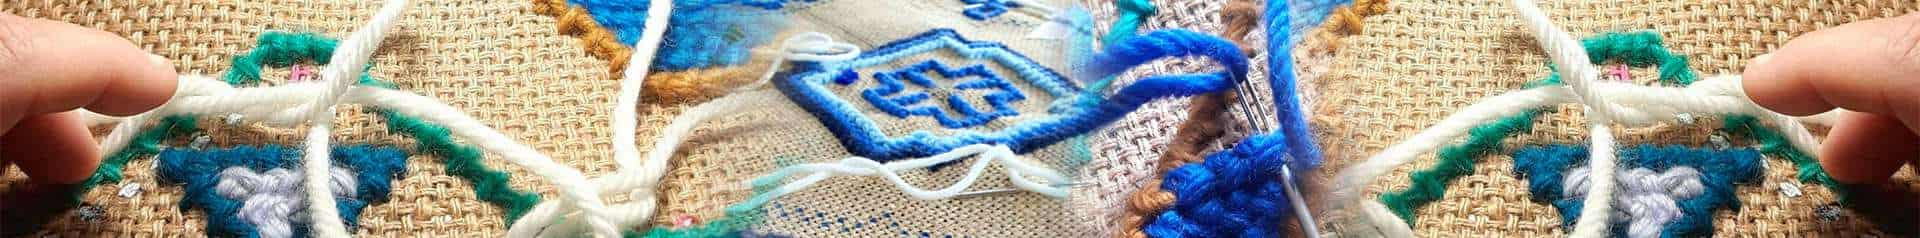
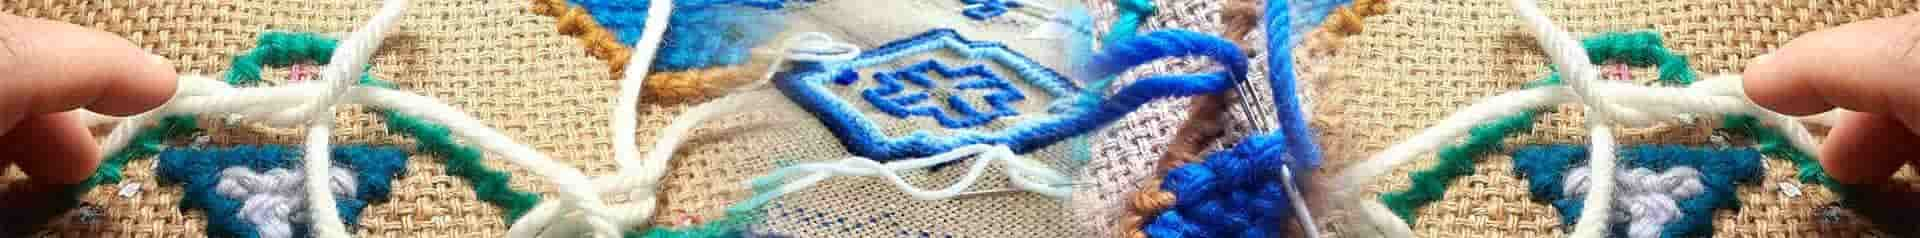
images and videos optimizeds

diff --git a/css/style.css b/css/style.css
@@ -1,1 +1,1 @@
-@import"https://fonts.googleapis.com/css2?family=Open+Sans:wght@400;700&display=swap";*{margin:0;padding:0;box-sizing:border-box;max-width:100%}body{font-family:"Open Sans",sans-serif}strong{-webkit-font-smoothing:antialiased;font-weight:700}.preload{position:absolute;width:0;height:0;opacity:0;z-index:-1;overflow:hidden}.section{display:block;width:100%;padding-left:24px;padding-right:24px}.section-container{width:100%;display:flex;flex-wrap:wrap;align-items:flex-start;align-content:flex-start;width:960px;margin:0 auto;min-height:100%}.row{width:100%;display:flex;flex-wrap:wrap;align-items:flex-start;align-content:flex-start;justify-content:center;align-items:center;align-content:center;width:100%}.header{height:238px;background-image:url("../img/header-aprenda-a-bordar-tapetes-min.jpg")}.header .section-container{width:100%;display:flex;flex-wrap:wrap;align-items:flex-start;align-content:flex-start;justify-content:center;align-items:center;align-content:center}.header .logo{margin-top:-80px}.landing-title{margin-top:-80px}.landing-title main{width:100%;display:flex;flex-wrap:wrap;align-items:flex-start;align-content:flex-start;justify-content:center;align-items:center;align-content:center;background:#802623;padding:14px 0;border:6px solid #fff}.landing-title h1{-webkit-font-smoothing:antialiased;font-weight:400;color:#fff;width:600px;text-align:center}.fake-video-thumb{display:block;width:100%;height:100%;cursor:pointer}.fake-video-thumb:hover{opacity:.8}.section.video{margin-top:40px}.main-video-background{background-image:url("../img/main-video-thumb.png");background-repeat:no-repeat;background-position:center center;background-size:cover;border:4px solid #000;box-sizing:border-box}.section.video .section-container .row{width:100%;display:flex;flex-wrap:wrap;align-items:flex-start;align-content:flex-start;justify-content:center;align-items:center;align-content:center}.section.video .video-frame{width:640px;height:360px}.section.video iframe{width:640px;height:360px;background-color:#000;border:4px solid #000}.section.video .title{-webkit-font-smoothing:antialiased;font-weight:400;display:block;margin:0 auto;width:830px;text-align:center;margin:50px;font-size:26px;color:#767372}.cta{width:100%;display:flex;flex-wrap:wrap;align-items:flex-start;align-content:flex-start;justify-content:center;align-items:center;align-content:center}.cta a{-webkit-font-smoothing:antialiased;font-weight:700;text-decoration:none;display:block;margin:0 auto;background:#2e9e28;color:#fff;width:530px;padding:12px;border-radius:36px;text-align:center;font-size:22px;text-transform:uppercase;transition-property:background-color;transition-duration:.4s}.cta a:hover{background-color:#22751e}.cta a:active{background-color:#164d13}.section.more-details{margin-top:50px;padding-top:10px;background-color:#f1ece3}.section.more-details .title{-webkit-font-smoothing:antialiased;font-weight:400;display:block;width:100%;text-align:center;font-size:43px;color:#363637;text-transform:uppercase}.section.more-details .subtitle{-webkit-font-smoothing:antialiased;font-weight:400;display:block;width:100%;text-align:center;font-size:25px;color:#846919}.section.more-details .image-content{width:100%;display:flex;flex-wrap:wrap;align-items:flex-start;align-content:flex-start}.section.more-details .image-content .image{width:40%;position:relative}.section.more-details .image-content .image img{display:block}.section.more-details .image-content .image .author{position:absolute;right:25px;bottom:30px;font-style:italic;font-size:15px}.section.more-details .image-content .image .author strong{display:block;width:100%}.section.more-details .image-content .content{width:60%;margin-top:30px}.section.more-details .image-content p{display:block;width:100%;font-size:25px}.section.more-details .image-content ul{display:block;width:100%;margin-top:10px}.section.more-details .image-content ul li{-webkit-font-smoothing:antialiased;font-weight:700;list-style:none;font-size:25px;color:#846919}.section.features{padding-top:30px;padding-bottom:30px}.section.features .title{-webkit-font-smoothing:antialiased;font-weight:400;font-size:51px;line-height:51px;text-align:center;width:660px}.section.features .box-container{width:100%;display:flex;flex-wrap:wrap;align-items:flex-start;align-content:flex-start;justify-content:center;align-items:center;align-content:center;align-items:flex-start;margin-top:60px}.section.features .box{width:25%;padding:12px}.section.features .box .icon{width:100%;display:flex;flex-wrap:wrap;align-items:flex-start;align-content:flex-start;justify-content:center;align-items:center;align-content:center;height:90px}.section.features .box .icon img{width:60px}.section.features .box p{display:block;width:100%;text-align:center;font-size:16px;color:#383737}.section.features .cta{margin-top:48px}.section.additional{margin-top:30px;background:#000;padding-top:24px;padding-bottom:42px}.section.additional .title{-webkit-font-smoothing:antialiased;font-weight:400;color:#fff;font-size:36px;text-align:center}.section.additional ul{width:100%;display:flex;flex-wrap:wrap;align-items:flex-start;align-content:flex-start;justify-content:space-between;margin-top:80px}.section.additional ul li{max-width:25%}.section.additional ul li img{display:block}.section.additional ul li strong{display:block;width:100%;text-align:center;color:#fff;font-size:30px;text-transform:uppercase;margin-top:18px}.section.additional .disclaimer{-webkit-font-smoothing:antialiased;font-weight:400;display:block;width:100%;text-align:center;color:#fff;font-size:36px;margin-top:80px}.section.additional .disclaimer strong{text-transform:uppercase}.section.additional .cta{margin-top:42px}.section.depositions{padding-top:50px;padding-bottom:62px}.section.depositions .title{display:block;width:100%;text-align:center;font-size:36px}.section.depositions .title strong{text-transform:uppercase}.section.depositions ul{width:100%;display:flex;flex-wrap:wrap;align-items:flex-start;align-content:flex-start;justify-content:space-between;margin-top:36px}.section.depositions ul li{list-style:none;text-align:center;font-size:16px;width:260px;max-width:33.3333333333%;padding:6px}.section.depositions ul li .video{display:block;width:100%;min-height:150px;background:#000;margin-top:12px}.section.depositions .called{display:block;width:100%;text-align:center;font-size:26px;margin-top:48px}.section.depositions .cta{margin-top:54px}.section.satisfaction{background-color:#155611;padding-top:36px;padding-bottom:36px}.section.satisfaction .row{width:100%;display:flex;flex-wrap:wrap;align-items:flex-start;align-content:flex-start;justify-content:space-between}.section.satisfaction .image{width:230px}.section.satisfaction p{-webkit-font-smoothing:antialiased;font-weight:400;width:calc(100% - 230px);padding-left:24px;color:#fff;font-size:16px}.section.price{padding-top:36px;padding-bottom:42px}.section.price .row-title{width:100%;display:flex;flex-wrap:wrap;align-items:flex-start;align-content:flex-start;justify-content:center;align-items:center;align-content:center}.section.price .title{display:block;width:680px;color:#f40103;font-size:36px;text-transform:uppercase;text-align:center}.section.price .alert-message{-webkit-font-smoothing:antialiased;font-weight:700;display:block;width:100%;color:#fff;background:#f40103;text-align:center;padding:6px;font-size:22px;text-transform:uppercase;margin-top:20px}.section.price .price-from{-webkit-font-smoothing:antialiased;font-weight:700;display:block;width:100%;text-align:center;margin-top:22px;font-size:38px;text-transform:uppercase}.section.price .price-from strong{position:relative;color:#f40103}.section.price .price-to{-webkit-font-smoothing:antialiased;font-weight:700;display:block;width:100%;text-align:center;font-size:25px}.section.price .price-to strong{font-size:90px}.section.price .tips{-webkit-font-smoothing:antialiased;font-weight:700;display:block;width:100%;text-align:center;margin-top:12px;font-size:33px;text-transform:uppercase}.section.price .cta{margin-top:36px}.section.price .payments{display:block;width:100%;margin-top:22px}.section.price .payments ul{width:100%;display:flex;flex-wrap:wrap;align-items:flex-start;align-content:flex-start;justify-content:center;align-items:center;align-content:center}.section.price .payments ul li{list-style:none;margin:0 5px}.section.price .payments ul li.text{-webkit-font-smoothing:antialiased;font-weight:700;font-size:10px;text-transform:uppercase;line-height:12px;color:#888}.section.price .payments ul li.mastercard img{width:40px}.section.price .payments ul li.visa img{width:50px}.section.price .payments ul li.hypercard img{width:44px}.section.price .payments ul li.american-express img{width:36px}.section.price .payments ul li.elo img{width:50px}.section.price .payments ul li.diners-club img{width:80px}.section.price .payments ul li.boleto img{width:42px}.section.price .payments ul li.paypal img{width:68px}.section.price .payments ul li.separator span{display:block;width:2px;height:50px;background:#b1b1b1}footer{background-color:#802623;width:100%;height:80px}/*# sourceMappingURL=style.css.map */
+@import"https://fonts.googleapis.com/css2?family=Open+Sans:wght@400;700&display=swap";*{margin:0;padding:0;box-sizing:border-box;max-width:100%}body{font-family:"Open Sans",sans-serif}strong{-webkit-font-smoothing:antialiased;font-weight:700}.preload{position:absolute;width:0;height:0;opacity:0;z-index:-1;overflow:hidden}.section{display:block;width:100%;padding-left:24px;padding-right:24px}.section-container{width:100%;display:flex;flex-wrap:wrap;align-items:flex-start;align-content:flex-start;width:960px;margin:0 auto;min-height:100%}.row{width:100%;display:flex;flex-wrap:wrap;align-items:flex-start;align-content:flex-start;justify-content:center;align-items:center;align-content:center;width:100%}.header{height:238px;background-image:url("../img/header-aprenda-a-bordar-tapetes-min.jpg")}.header .section-container{width:100%;display:flex;flex-wrap:wrap;align-items:flex-start;align-content:flex-start;justify-content:center;align-items:center;align-content:center}.header .logo{margin-top:-80px}.landing-title{margin-top:-80px}.landing-title main{width:100%;display:flex;flex-wrap:wrap;align-items:flex-start;align-content:flex-start;justify-content:center;align-items:center;align-content:center;background:#802623;padding:14px 0;border:6px solid #fff}.landing-title h1{-webkit-font-smoothing:antialiased;font-weight:400;color:#fff;width:600px;text-align:center}.fake-video-thumb{display:block;width:100%;height:100%;cursor:pointer}.fake-video-thumb:hover{opacity:.8}.section.video{margin-top:40px}.main-video-background{background-image:url("../img/main-video-thumb-min.png");background-repeat:no-repeat;background-position:center center;background-size:cover;border:4px solid #000;box-sizing:border-box}.section.video .section-container .row{width:100%;display:flex;flex-wrap:wrap;align-items:flex-start;align-content:flex-start;justify-content:center;align-items:center;align-content:center}.section.video .video-frame{width:640px;height:360px}.section.video iframe{width:640px;height:360px;background-color:#000;border:4px solid #000}.section.video .title{-webkit-font-smoothing:antialiased;font-weight:400;display:block;margin:0 auto;width:830px;text-align:center;margin:50px;font-size:26px;color:#767372}.cta{width:100%;display:flex;flex-wrap:wrap;align-items:flex-start;align-content:flex-start;justify-content:center;align-items:center;align-content:center}.cta a{-webkit-font-smoothing:antialiased;font-weight:700;text-decoration:none;display:block;margin:0 auto;background:#2e9e28;color:#fff;width:530px;padding:12px;border-radius:36px;text-align:center;font-size:22px;text-transform:uppercase;transition-property:background-color;transition-duration:.4s}.cta a:hover{background-color:#22751e}.cta a:active{background-color:#164d13}.section.more-details{margin-top:50px;padding-top:10px;background-color:#f1ece3}.section.more-details .title{-webkit-font-smoothing:antialiased;font-weight:400;display:block;width:100%;text-align:center;font-size:43px;color:#363637;text-transform:uppercase}.section.more-details .subtitle{-webkit-font-smoothing:antialiased;font-weight:400;display:block;width:100%;text-align:center;font-size:25px;color:#846919}.section.more-details .image-content{width:100%;display:flex;flex-wrap:wrap;align-items:flex-start;align-content:flex-start}.section.more-details .image-content .image{width:40%;position:relative}.section.more-details .image-content .image img{display:block}.section.more-details .image-content .image .author{position:absolute;right:25px;bottom:30px;font-style:italic;font-size:15px}.section.more-details .image-content .image .author strong{display:block;width:100%}.section.more-details .image-content .content{width:60%;margin-top:30px}.section.more-details .image-content p{display:block;width:100%;font-size:25px}.section.more-details .image-content ul{display:block;width:100%;margin-top:10px}.section.more-details .image-content ul li{-webkit-font-smoothing:antialiased;font-weight:700;list-style:none;font-size:25px;color:#846919}.section.features{padding-top:30px;padding-bottom:30px}.section.features .title{-webkit-font-smoothing:antialiased;font-weight:400;font-size:51px;line-height:51px;text-align:center;width:660px}.section.features .box-container{width:100%;display:flex;flex-wrap:wrap;align-items:flex-start;align-content:flex-start;justify-content:center;align-items:center;align-content:center;align-items:flex-start;margin-top:60px}.section.features .box{width:25%;padding:12px}.section.features .box .icon{width:100%;display:flex;flex-wrap:wrap;align-items:flex-start;align-content:flex-start;justify-content:center;align-items:center;align-content:center;height:90px}.section.features .box .icon img{width:60px}.section.features .box p{display:block;width:100%;text-align:center;font-size:16px;color:#383737}.section.features .cta{margin-top:48px}.section.additional{margin-top:30px;background:#000;padding-top:24px;padding-bottom:42px}.section.additional .title{-webkit-font-smoothing:antialiased;font-weight:400;color:#fff;font-size:36px;text-align:center}.section.additional ul{width:100%;display:flex;flex-wrap:wrap;align-items:flex-start;align-content:flex-start;justify-content:space-between;margin-top:80px}.section.additional ul li{max-width:25%}.section.additional ul li img{display:block}.section.additional ul li strong{display:block;width:100%;text-align:center;color:#fff;font-size:30px;text-transform:uppercase;margin-top:18px}.section.additional .disclaimer{-webkit-font-smoothing:antialiased;font-weight:400;display:block;width:100%;text-align:center;color:#fff;font-size:36px;margin-top:80px}.section.additional .disclaimer strong{text-transform:uppercase}.section.additional .cta{margin-top:42px}.section.depositions{padding-top:50px;padding-bottom:62px}.section.depositions .title{display:block;width:100%;text-align:center;font-size:36px}.section.depositions .title strong{text-transform:uppercase}.section.depositions ul{width:100%;display:flex;flex-wrap:wrap;align-items:flex-start;align-content:flex-start;justify-content:space-between;margin-top:36px}.section.depositions ul li{list-style:none;text-align:center;font-size:16px;width:300px;max-width:33.3333333333%;padding:6px}.section.depositions ul li .video{display:block;width:100%;height:150px;background:#000;margin-top:12px}.section.depositions ul li .video .fake-depoiment-thumb{background-position:center;background-size:cover;background-repeat:no-repeat}.section.depositions ul li .video .depoimento-thumb-1{background-image:url("../img/video-depoimento-1-thumb-min.png")}.section.depositions ul li .video .depoimento-thumb-2{background-image:url("../img/video-depoimento-2-thumb-min.png")}.section.depositions ul li .video .depoimento-thumb-3{background-image:url("../img/video-depoimento-3-thumb-min.png")}.section.depositions .called{display:block;width:100%;text-align:center;font-size:26px;margin-top:48px}.section.depositions .cta{margin-top:54px}.section.satisfaction{background-color:#155611;padding-top:36px;padding-bottom:36px}.section.satisfaction .row{width:100%;display:flex;flex-wrap:wrap;align-items:flex-start;align-content:flex-start;justify-content:space-between}.section.satisfaction .image{width:230px}.section.satisfaction p{-webkit-font-smoothing:antialiased;font-weight:400;width:calc(100% - 230px);padding-left:24px;color:#fff;font-size:16px}.section.price{padding-top:36px;padding-bottom:42px}.section.price .row-title{width:100%;display:flex;flex-wrap:wrap;align-items:flex-start;align-content:flex-start;justify-content:center;align-items:center;align-content:center}.section.price .title{display:block;width:680px;color:#f40103;font-size:36px;text-transform:uppercase;text-align:center}.section.price .alert-message{-webkit-font-smoothing:antialiased;font-weight:700;display:block;width:100%;color:#fff;background:#f40103;text-align:center;padding:6px;font-size:22px;text-transform:uppercase;margin-top:20px}.section.price .price-from{-webkit-font-smoothing:antialiased;font-weight:700;display:block;width:100%;text-align:center;margin-top:22px;font-size:38px;text-transform:uppercase}.section.price .price-from strong{position:relative;color:#f40103}.section.price .price-to{-webkit-font-smoothing:antialiased;font-weight:700;display:block;width:100%;text-align:center;font-size:25px}.section.price .price-to strong{font-size:90px}.section.price .tips{-webkit-font-smoothing:antialiased;font-weight:700;display:block;width:100%;text-align:center;margin-top:12px;font-size:33px;text-transform:uppercase}.section.price .cta{margin-top:36px}.section.price .payments{display:block;width:100%;margin-top:22px}.section.price .payments ul{width:100%;display:flex;flex-wrap:wrap;align-items:flex-start;align-content:flex-start;justify-content:center;align-items:center;align-content:center}.section.price .payments ul li{list-style:none;margin:0 5px}.section.price .payments ul li.text{-webkit-font-smoothing:antialiased;font-weight:700;font-size:10px;text-transform:uppercase;line-height:12px;color:#888}.section.price .payments ul li.mastercard img{width:40px}.section.price .payments ul li.visa img{width:50px}.section.price .payments ul li.hypercard img{width:44px}.section.price .payments ul li.american-express img{width:36px}.section.price .payments ul li.elo img{width:50px}.section.price .payments ul li.diners-club img{width:80px}.section.price .payments ul li.boleto img{width:42px}.section.price .payments ul li.paypal img{width:68px}.section.price .payments ul li.separator span{display:block;width:2px;height:50px;background:#b1b1b1}footer{background-color:#802623;width:100%;height:80px}/*# sourceMappingURL=style.css.map */

diff --git a/index.html b/index.html
@@ -41,7 +41,11 @@
     <div class="section-container">
       <div class="row">
         <div class="video-frame">
-          <div id="linkMainVideo" class="fake-video-thumb main-video-background" onclick="loadVideo(this, 'FLXnAww-8U8', true)"></div>
+          <div
+            id="linkMainVideo"
+            class="fake-video-thumb main-video-background"
+            onclick="loadVideo(this, 'FLXnAww-8U8', 560, 315, true);">
+          </div>
         </div>
       </div>
       <div class="row">
@@ -61,7 +65,7 @@
       <h5 class="subtitle">Curso completo passo a passo para iniciantes!</h5>
       <div class="image-content">
         <div class="image">
-          <img src="img/mulher-ensinando-a-bordar-tapete.png" alt="Mulher ensinando a bordar">
+          <img src="img/mulher-ensinando-a-bordar-tapete-min.png" width="350" height="343" alt="Mulher ensinando a bordar">
           <div class="author">
             <strong>Maria Betania Maioli</strong>
             Especialista em Arraiolos
@@ -89,7 +93,7 @@
       <div class="row box-container">
         <div class="box">
           <div class="icon">
-            <img src="img/icon-plane.svg" alt="ícone avião">
+            <img src="img/icon-plane.svg" width="60" height="60" alt="ícone avião">
           </div>
           <p>
             O KIT com os materiais para você iniciar seu curso será enviado sem nenhum custo a mais, com <strong>FRETE</strong> totalmente <strong>GRÁTIS</strong> para todo Brasil.
@@ -97,7 +101,7 @@
         </div>
         <div class="box">
           <div class="icon">
-            <img src="img/icon-thumbs-up.svg" alt="ícone joinha like">
+            <img src="img/icon-thumbs-up.svg" width="60" height="60" alt="ícone joinha like">
           </div>
           <p>
             Você terá acesso <strong>IMEDIATO</strong> ao curso por tempo ilimitado, podendo assistir as aulas a qualquer hora e lugar!
@@ -105,7 +109,7 @@
         </div>
         <div class="box">
           <div class="icon">
-            <img src="img/icon-whatsapp.svg" alt="ícone whatsapp">
+            <img src="img/icon-whatsapp.svg" width="60" height="60" alt="ícone whatsapp">
           </div>
           <p>
             Você irá fazer parte de um Grupo de Alunas no TELEGRAM para tirar dúvidas mais frequentes durante o horário comercial.
@@ -113,7 +117,7 @@
         </div>
         <div class="box">
           <div class="icon">
-            <img src="img/icon-camera.svg" alt="ícone câmera">
+            <img src="img/icon-camera.svg" width="60" height="60" alt="ícone câmera">
           </div>
           <p>
             As aulas semanais ao vivo serão também disponibilizadas dentro da Plataforma do Curso Online para você assistir quando quiser.
@@ -132,10 +136,10 @@
         <h5 class="title">Ao adquirir nosso Curso você pode optar por um dos 4 modelos abaixo para receber o kit com os materiais e iniciar suas aulas online!</h5>
       </div>
       <ul>
-        <li><img src="img/tapetes-safira.jpeg" alt=""><strong>Safira</strong></li>
-        <li><img src="img/tapetes-ametista.jpeg" alt=""><strong>Ametista</strong></li>
-        <li><img src="img/tapetes-rubi.jpeg" alt=""><strong>Rubi</strong></li>
-        <li><img src="img/tapetes-esmeralda.jpeg" alt=""><strong>Esmeralda</strong></li>
+        <li><img src="img/tapetes-safira-min.jpeg" width="213" height="195" alt="Tapete Safira"><strong>Safira</strong></li>
+        <li><img src="img/tapetes-ametista-min.jpeg" width="214" height="196" alt="Tapete Ametista"><strong>Ametista</strong></li>
+        <li><img src="img/tapetes-rubi-min.jpeg" width="214" height="195" alt="Tapete Rubi"><strong>Rubi</strong></li>
+        <li><img src="img/tapetes-esmeralda-min.jpeg" width="213" height="195" alt="Tapete Esmeralda"><strong>Esmeralda</strong></li>
       </ul>
       <div class="row">
         <h4 class="disclaimer">
@@ -157,17 +161,35 @@
         <li>
           <strong>Mais uma aluna da Bê!</strong>
           <p>Alcídia - São José do Rio Preto/SP</p>
-          <div class="video"></div>
+          <div class="video">
+            <div
+              id="testimonyVideo1"
+              class="fake-video-thumb fake-depoiment-thumb depoimento-thumb-1"
+              onclick="loadVideo(this, 'P-Flv2phcWY', 288, 150, true);">
+            </div>
+          </div>
         </li>
         <li>
           <strong>Mais uma aluna da Bê!</strong>
           <p>Fernanda - Arapongas/PR</p>
-          <div class="video"></div>
+          <div class="video">
+            <div
+              id="testimonyVideo2"
+              class="fake-video-thumb fake-depoiment-thumb depoimento-thumb-2"
+              onclick="loadVideo(this, 'cOLUs4nOdM4', 288, 150, true);">
+            </div>
+          </div>
         </li>
         <li>
           <strong>Mais uma aluna da Bê!</strong>
           <p>Silvana - Rio de Janeiro/RJ</p>
-          <div class="video"></div>
+          <div class="video">
+            <div
+              id="testimonyVideo3"
+              class="fake-video-thumb fake-depoiment-thumb depoimento-thumb-3"
+              onclick="loadVideo(this, 'fKQcrXiRSw4', 288, 150, true);">
+            </div>
+          </div>
         </li>
       </ul>
       <div class="called">Venha fazer parte dessa turma e desperte sua criatividade!</div>
@@ -183,7 +205,7 @@
     <div class="section-container">
       <div class="row">
         <div class="image">
-          <img src="img/selo-garantia-de-satisfacao.png" alt="Selo de Garantia de Satisfação">
+          <img src="img/selo-garantia-de-satisfacao-min.png" width="208" height="176" alt="Selo de Garantia de Satisfação">
         </div>
         <p>Ainda está na dúvida se o Curso funciona e se realmente é para você? Você acessa o Curso e tem até 7 dias para pedir seu dinheiro de volta caso não goste de qualquer coisa. O Objetivo é adicionar Valor Real à sua Vida, mostrando técnicas extremamente eficazes que levarão você a ser uma Artesã de Sucesso. Se por algum motivo você achar que não valeu a pena, achar que o curso não é pra você, ou qualquer que seja o motivo, devolvo 100% do seu dinheiro, basta enviar um único e-mail ou WhatsApp.</p>
       </div>
@@ -211,15 +233,15 @@
       <div class="payments">
         <ul>
           <li class="text">Pague com<br>segurança</li>
-          <li class="mastercard"><img src="img/payment-mastercard.svg" alt="Pague com Mastercard"></li>
-          <li class="visa"><img src="img/payment-visa.svg" alt="Pague com Visa"></li>
-          <li class="hypercard"><img src="img/payment-hypercard.svg" alt="Pague com Hypercard"></li>
-          <li class="american-express"><img src="img/payment-american-express.svg" alt="Pague com American Express"></li>
-          <li class="elo"><img src="img/payment-elo.svg" alt="Pague com ELO"></li>
-          <li class="diners-club"><img src="img/payment-diners-club.svg" alt="Pague com Diners Club Internacional"></li>
+          <li class="mastercard"><img src="img/payment-mastercard.svg" width="40" height="40" alt="Pague com Mastercard"></li>
+          <li class="visa"><img src="img/payment-visa.svg" width="50" height="50" alt="Pague com Visa"></li>
+          <li class="hypercard"><img src="img/payment-hypercard.svg" width="44" height="19" alt="Pague com Hypercard"></li>
+          <li class="american-express"><img src="img/payment-american-express.svg" width="36" height="36" alt="Pague com American Express"></li>
+          <li class="elo"><img src="img/payment-elo.svg" width="50" height="23" alt="Pague com ELO"></li>
+          <li class="diners-club"><img src="img/payment-diners-club.svg" width="80" height="21" alt="Pague com Diners Club Internacional"></li>
           <li class="separator"><span></span></li>
-          <li class="boleto"><img src="img/payment-boleto.svg" alt="Pague com Boleto"></li>
-          <li class="paypal"><img src="img/payment-paypal.svg" alt="Pague com PayPal"></li>
+          <li class="boleto"><img src="img/payment-boleto.svg" width="42" height="24" alt="Pague com Boleto"></li>
+          <li class="paypal"><img src="img/payment-paypal.svg" width="68" height="68" alt="Pague com PayPal"></li>
         </ul>
       </div>
     </div>

diff --git a/js/app.js b/js/app.js
@@ -7,11 +7,13 @@ var simulateClick = function (elem) {
   var canceled = !elem.dispatchEvent(evt);
 };
 
-function loadVideo(element, videoId, autoplay = false) {
+function loadVideo(element, videoId, width, height, autoplay = false, controls = false) {
   var container = element.parentElement;
   var autoplayParam = autoplay ? "1": "0";
   var muteParam = autoplay ? "1": "0";
-  container.innerHTML = '<iframe width="560" height="315" frameborder="0" allowfullscreen="1" allow="accelerometer; autoplay; clipboard-write; encrypted-media; gyroscope; picture-in-picture" title="YouTube video player" src="https://www.youtube.com/embed/'+videoId+'?rel=0&amp;autoplay='+autoplayParam+'&amp;loop=0&amp;showinfo=0&amp;controls=0&amp;mute='+muteParam+'&amp;enablejsapi=1&amp;widgetid=1"></iframe>';
+  var controlsParam = controls ? "1": "0";
+  container.innerHTML = '<iframe width="'+width+'" height="'+height+'" frameborder="0" allowfullscreen="1" allow="accelerometer; autoplay; clipboard-write; encrypted-media; gyroscope; picture-in-picture" title="YouTube video player" src="https://www.youtube.com/embed/'+videoId+'?rel=0&amp;autoplay='+autoplayParam+'&amp;loop=0&amp;showinfo=0&amp;controls='+controlsParam+'&amp;mute='+muteParam+'&amp;enablejsapi=1&amp;widgetid=1"></iframe>';
 }
 
-setTimeout(function () { simulateClick(document.querySelector('#linkMainVideo')); }, 500)
+// Starts main video automatically
+// setTimeout(function () { simulateClick(document.querySelector('#linkMainVideo')); }, 500)

diff --git a/css/style.sass b/css/style.sass
@@ -109,7 +109,7 @@ strong
   margin-top: 40px
 
 .main-video-background
-  background-image: url("../img/main-video-thumb.png")
+  background-image: url("../img/main-video-thumb-min.png")
   background-repeat: no-repeat
   background-position: center center
   background-size: cover
@@ -331,16 +331,30 @@ strong
   list-style: none
   text-align: center
   font-size: 16px
-  width: 260px
+  width: 300px
   max-width: 33.3333333333%
   padding: 6px
 
 .section.depositions ul li .video
   display: block
   width: 100%
-  min-height: 150px
+  height: 150px
   background: #000
   margin-top: 12px
+
+.section.depositions ul li .video .fake-depoiment-thumb
+  background-position: center
+  background-size: cover
+  background-repeat: no-repeat
+
+.section.depositions ul li .video .depoimento-thumb-1
+  background-image: url("../img/video-depoimento-1-thumb-min.png")
+
+.section.depositions ul li .video .depoimento-thumb-2
+  background-image: url("../img/video-depoimento-2-thumb-min.png")
+
+.section.depositions ul li .video .depoimento-thumb-3
+  background-image: url("../img/video-depoimento-3-thumb-min.png")
 
 .section.depositions .called
   display: block
